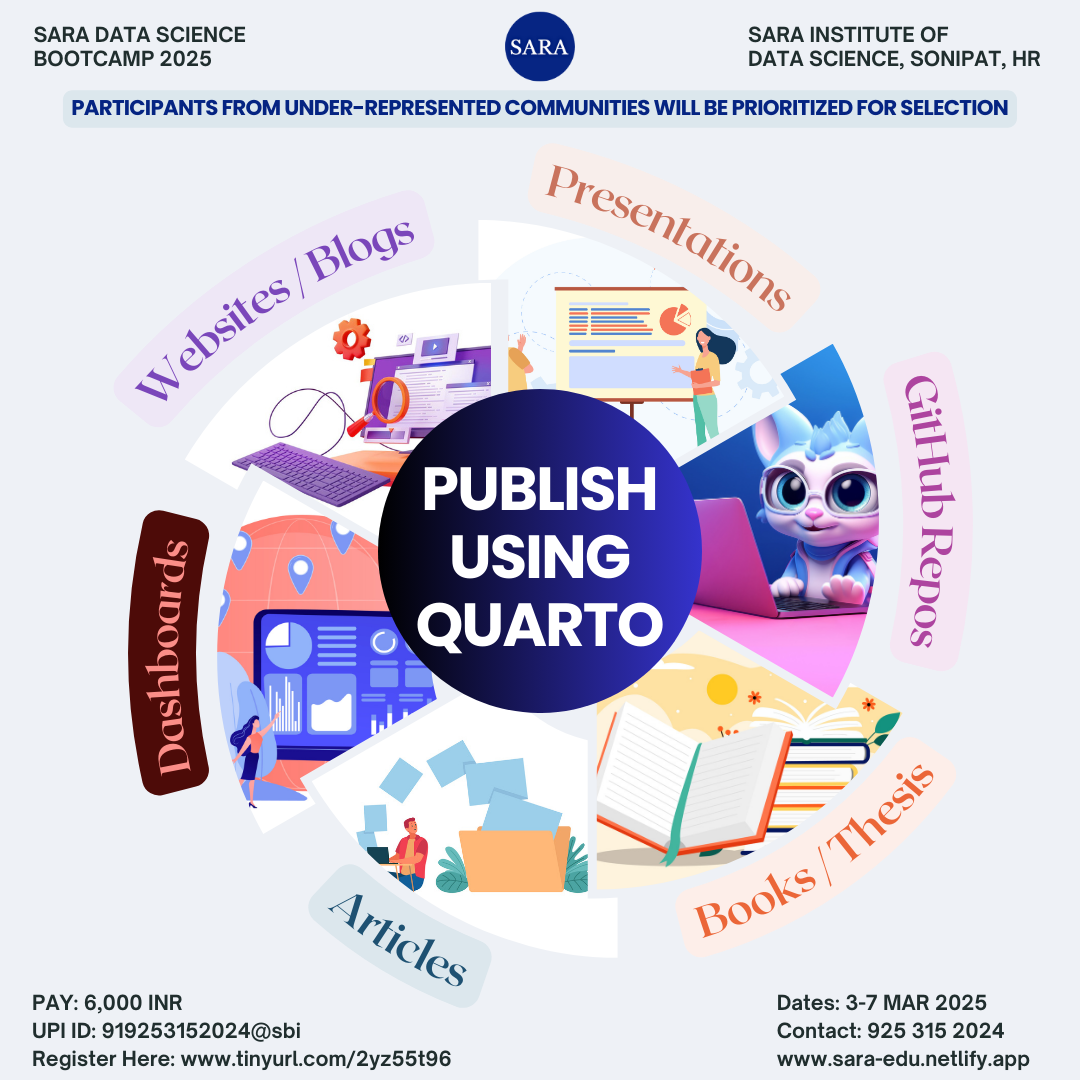
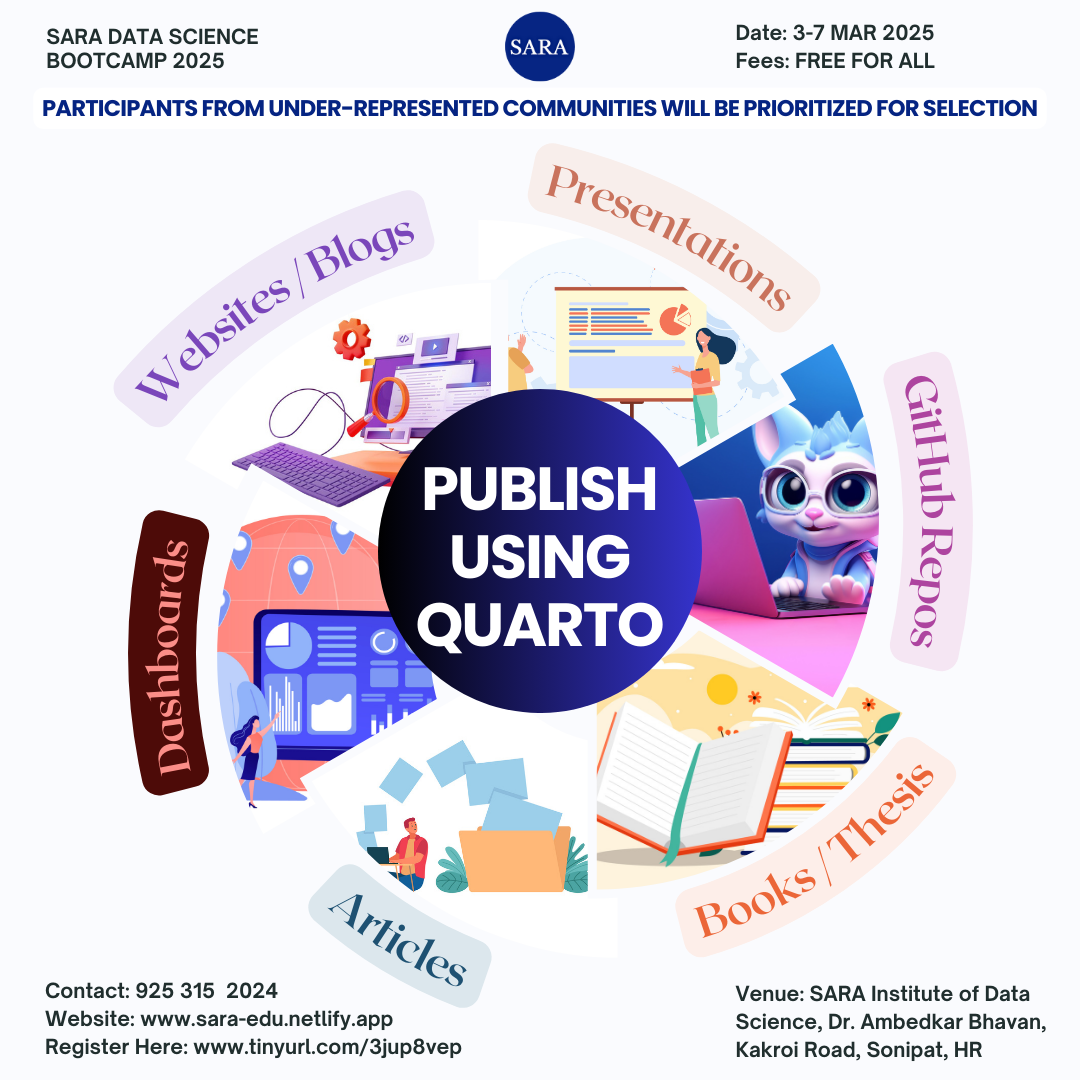
added thank-you slides

Changed region(s): [[0.0306, 0.0, 0.9778, 0.1222], [0.0306, 0.8861, 0.4278, 1.0], [0.6722, 0.9167, 0.9778, 1.0]]

diff --git a/_site/thanks.html b/_site/thanks.html
@@ -134,11 +134,67 @@
 </div>
 
 </section>
-<section class="slide level2">
-
-
-
+<section id="section" class="slide level2" data-background-image="https://images.unsplash.com/photo-1615715035868-fc94bd5ffdac?q=80&amp;w=2070&amp;auto=format&amp;fit=crop&amp;ixlib=rb-4.0.3&amp;ixid=M3wxMjA3fDB8MHxwaG90by1wYWdlfHx8fGVufDB8fHx8fA%3D%3D" data-background-size="cover">
+<h2></h2>
+<p><br> <br></p>
+<div class="centering">
+<div class="columns">
+<div class="column" style="width:36%;">
+<div class="quarto-figure quarto-figure-center">
+<figure>
+<p><img data-src="images/savitrimai.png" style="width:70.0%"></p>
+<figcaption><strong>GYAN JYOTI <span class="clr-red">SA</span>VITRIBAI PHULE (1831-1897)</strong><br>🌺 🙏🏽 🌼</figcaption>
+</figure>
+</div>
+</div><div class="column" style="width:29%;">
+<p><br></p>
+<div class="quarto-figure quarto-figure-center">
+<figure>
+<p><img data-src="images/logo-sara.png" class="quarto-figure quarto-figure-center" style="width:2in"></p>
+</figure>
+</div>
+</div><div class="column" style="width:34.75%;">
+<div class="quarto-figure quarto-figure-center">
+<figure>
+<p><img data-src="images/ramai.png" style="width:70.0%"></p>
+<figcaption><strong>MATA <span class="clr-red">RA</span>MABAI AMBEDKAR (1898-1935)</strong><br>🌺 🙏🏽 🌼</figcaption>
+</figure>
+</div>
+</div></div>
+<p><span class="r-fit-text"><strong>Savitribai Ramabai (SARA) Institute of Data Science</strong></span></p>
+</div>
 </section>
+<section>
+<section id="section-1" class="title-slide slide level1 center" data-background-image="https://images.unsplash.com/photo-1615715035868-fc94bd5ffdac?q=80&amp;w=2070&amp;auto=format&amp;fit=crop&amp;ixlib=rb-4.0.3&amp;ixid=M3wxMjA3fDB8MHxwaG90by1wYWdlfHx8fGVufDB8fHx8fA%3D%3D" data-background-size="cover">
+<h1></h1>
+
+<img data-src="images/flyer-march.png" class="quarto-figure quarto-figure-center r-stretch"></section>
+<section id="event-overview" class="slide level2" data-background-image="https://images.unsplash.com/photo-1615715035868-fc94bd5ffdac?q=80&amp;w=2070&amp;auto=format&amp;fit=crop&amp;ixlib=rb-4.0.3&amp;ixid=M3wxMjA3fDB8MHxwaG90by1wYWdlfHx8fGVufDB8fHx8fA%3D%3D" data-background-size="cover">
+<h2>Event Overview</h2>
+<ul>
+<li><p>Open to Everyone, <strong>Free</strong> for all.</p></li>
+<li><p>Participants</p>
+<ul>
+<li>46 registered.</li>
+<li>13 reached.</li>
+<li><strong>10 attended</strong>.</li>
+</ul></li>
+<li><p><strong>30 hours</strong> of teaching.</p></li>
+</ul>
+</section>
+<section id="section-2" class="slide level2" data-background-image="https://images.unsplash.com/photo-1615715035868-fc94bd5ffdac?q=80&amp;w=2070&amp;auto=format&amp;fit=crop&amp;ixlib=rb-4.0.3&amp;ixid=M3wxMjA3fDB8MHxwaG90by1wYWdlfHx8fGVufDB8fHx8fA%3D%3D" data-background-size="cover">
+<h2></h2>
+<p><br> <br></p>
+<div class="centering">
+<p><img data-src="images/sonipat-bhawan.png"></p>
+<p><span class="r-fit-text"><strong><em>The Ambedkar <br>Educational Society Sonipat</em></strong></span></p>
+</div>
+</section>
+<section id="section-3" class="slide level2" data-background-image="images/students.jpg" data-background-size="cover">
+<h2></h2>
+
+
+</section></section>
     </div>
   <div class="quarto-auto-generated-content" style="display: none;">
 <p><img src="images/logo-sara.png" class="slide-logo"></p>

diff --git a/_site/website.html b/_site/website.html
@@ -491,7 +491,7 @@ Learn more about CSS: <a href="https://www.w3schools.com/css/default.asp" class=
 <img data-src="images/netlify5.png" class="r-stretch"></section>
 <section id="add-content" class="slide level2">
 <h2>Add Content</h2>
-<p>Duis urna urna, pellentesque eu urna ut, malesuada bibendum dolor. Suspendisse potenti. Vivamus ornare, arcu quis molestie ultrices, magna est accumsan augue, auctor vulputate erat quam quis neque. Nullam scelerisque odio vel ultricies facilisis. Ut porta arcu non magna sagittis lacinia. Cras ornare vulputate lectus a tristique. Pellentesque ac arcu congue, rhoncus mi id, dignissim ligula.</p>
+<p>Aenean placerat luctus tortor vitae molestie. Nulla at aliquet nulla. Sed efficitur tellus orci, sed fringilla lectus laoreet eget. Vivamus maximus quam sit amet arcu dignissim, sed accumsan massa ullamcorper. Sed iaculis tincidunt feugiat. Nulla in est at nunc ultricies dictum ut vitae nunc. Aenean convallis vel diam at malesuada. Suspendisse arcu libero, vehicula tempus ultrices a, placerat sit amet tortor. Sed dictum id nulla commodo mattis. Aliquam mollis, nunc eu tristique faucibus, purus lacus tincidunt nulla, ac pretium lorem nunc ut enim. Curabitur eget mattis nisl, vitae sodales augue. Nam felis massa, bibendum sit amet nulla vel, vulputate rutrum lacus. Aenean convallis odio pharetra nulla mattis consequat.</p>
 
 
 </section></section>

diff --git a/_site/quarto.html b/_site/quarto.html
@@ -304,7 +304,7 @@
 <h2>🤯 Your Turn</h2>
 <div class="cell">
 <div class="cell-output-display">
-<div class="countdown" id="timer_92a2f580" data-update-every="1" tabindex="0" style="right:0;bottom:0;">
+<div class="countdown" id="timer_66aca9f9" data-update-every="1" tabindex="0" style="right:0;bottom:0;">
 <div class="countdown-controls"><button class="countdown-bump-down">−</button><button class="countdown-bump-up">+</button></div>
 <code class="countdown-time"><span class="countdown-digits minutes">07</span><span class="countdown-digits colon">:</span><span class="countdown-digits seconds">00</span></code>
 </div>
@@ -326,7 +326,7 @@
 <h2>🤯 Your Turn</h2>
 <div class="cell">
 <div class="cell-output-display">
-<div class="countdown" id="timer_7431df73" data-update-every="1" tabindex="0" style="right:0;bottom:0;">
+<div class="countdown" id="timer_f95c5adc" data-update-every="1" tabindex="0" style="right:0;bottom:0;">
 <div class="countdown-controls"><button class="countdown-bump-down">−</button><button class="countdown-bump-up">+</button></div>
 <code class="countdown-time"><span class="countdown-digits minutes">07</span><span class="countdown-digits colon">:</span><span class="countdown-digits seconds">00</span></code>
 </div>

diff --git a/_site/r-intro.html b/_site/r-intro.html
@@ -326,7 +326,7 @@
 <p>Write a brief note describing your experience of using R and RStudio for the first time.</p>
 <div class="cell">
 <div class="cell-output-display">
-<div class="countdown" id="timer_582683a3" data-update-every="1" tabindex="0" style="right:0;bottom:0;">
+<div class="countdown" id="timer_e12373be" data-update-every="1" tabindex="0" style="right:0;bottom:0;">
 <div class="countdown-controls"><button class="countdown-bump-down">−</button><button class="countdown-bump-up">+</button></div>
 <code class="countdown-time"><span class="countdown-digits minutes">15</span><span class="countdown-digits colon">:</span><span class="countdown-digits seconds">00</span></code>
 </div>
